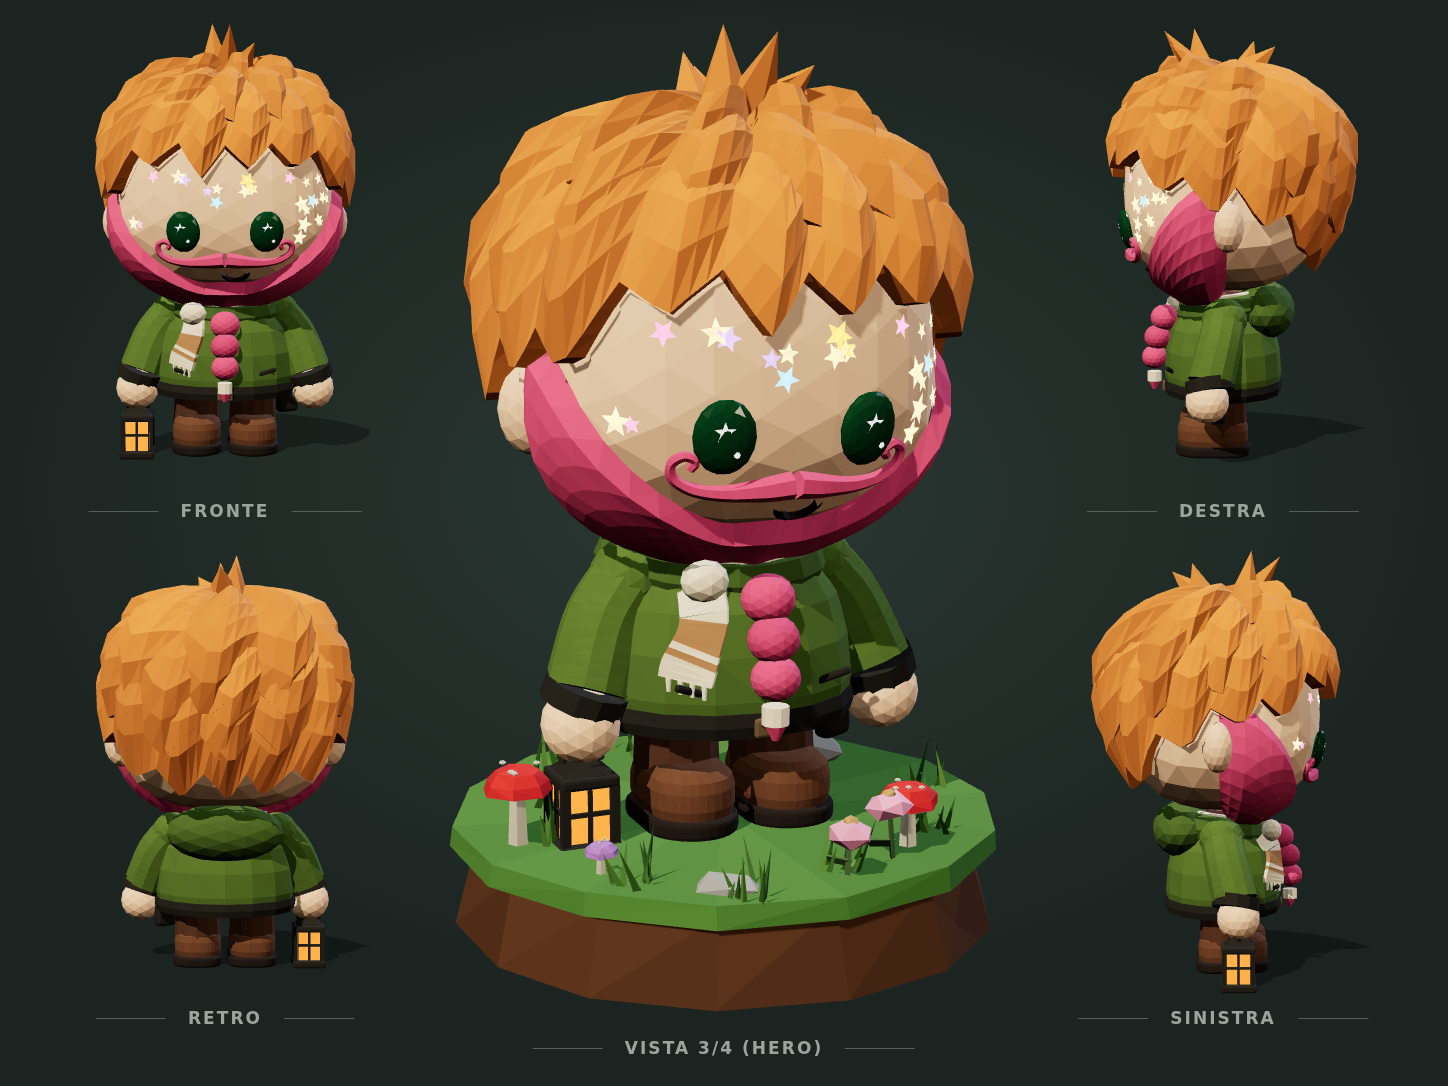
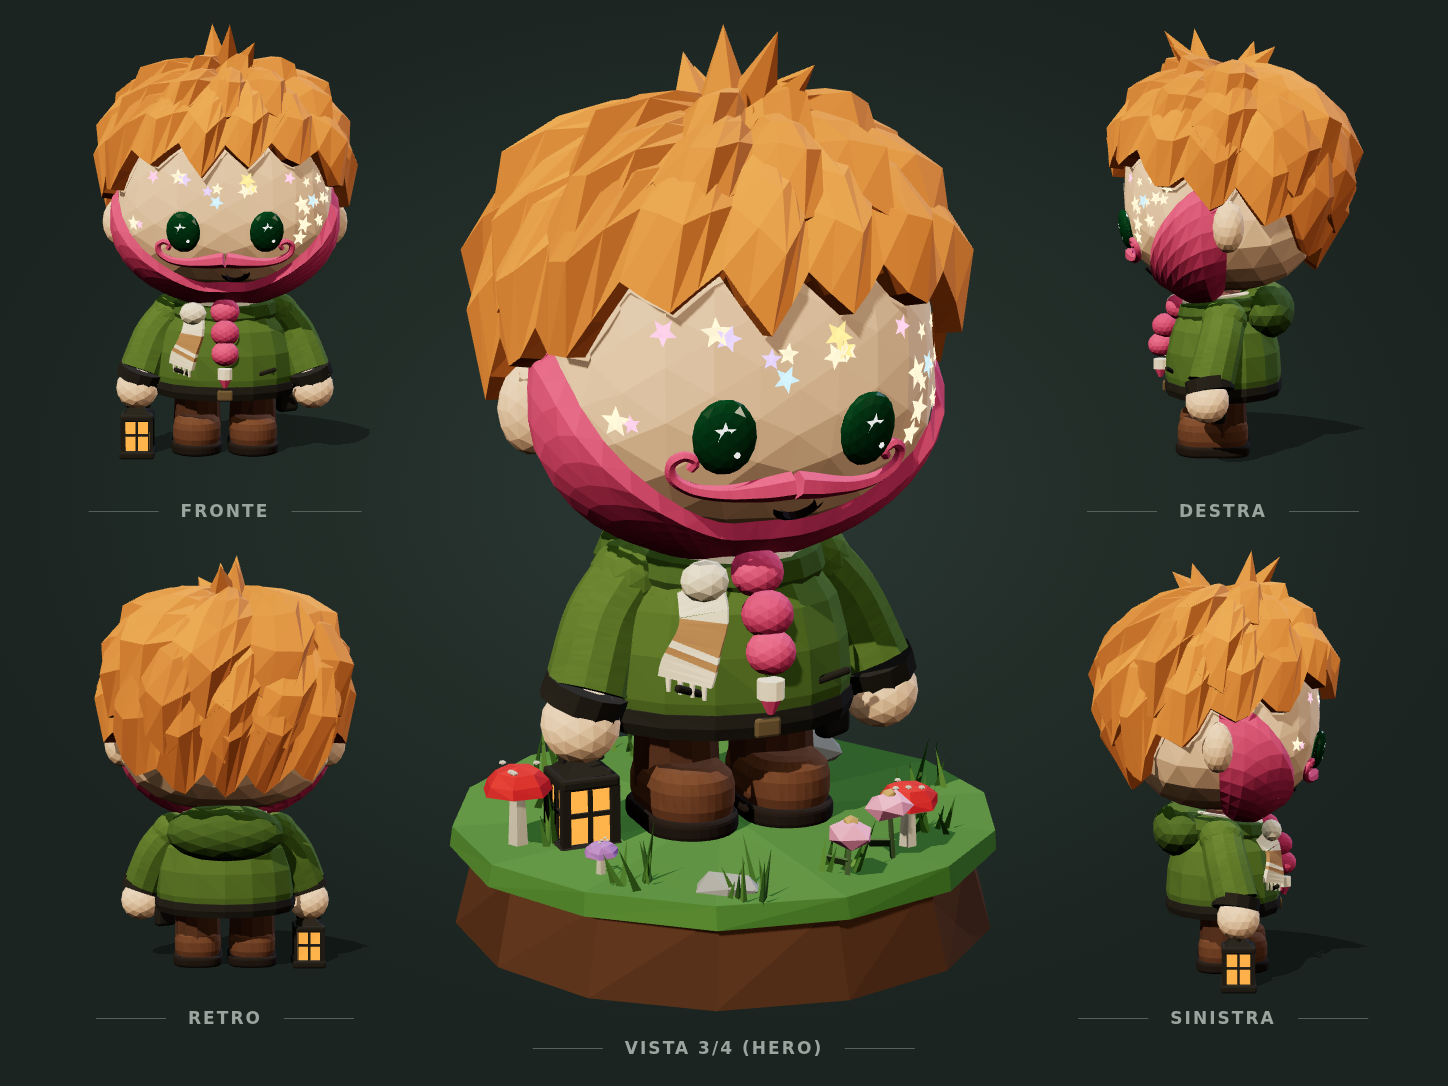
Style prototype v2, tenth pass: thinner beard sides, attached braid, lighter hair
Beard thinner on the sides; braid starts half inside the beard tip; hair
layers use fewer segments per lock (4x6 instead of 6x9) with the same look,
bringing the whole model to ~12.7k triangles. Audit updated.

Claude-Session: https://claude.ai/code/session_01U6u5RojYrwYjZd8sSRU7em

diff --git a/Prototype-3d/src/proto/custodeV2.ts b/Prototype-3d/src/proto/custodeV2.ts
@@ -256,7 +256,7 @@ function beard(lp: LP) {
       const side = smooth(0, 0.12, 1 - Math.abs(u));
       const center = 0.35 + 0.65 * Math.pow(1 - Math.abs(u), 1.4);
       const low = Math.pow(1 - v, 2);
-      const t = side * smooth(0, 0.06, 1 - v) * (0.018 + 0.012 * center + 0.075 * low * center); // fascia media ai lati, cuneo pieno al mento
+      const t = side * smooth(0, 0.06, 1 - v) * (0.008 + 0.014 * center + 0.075 * low * center); // sottile ai lati, cuneo pieno al mento
       // sotto il mento la massa va anche in avanti, non solo lungo la normale
       const dir = n.clone().add(new THREE.Vector3(0, -0.15, 0.55).multiplyScalar(low * center)).normalize();
       inner[i].push(p.clone());
@@ -280,13 +280,13 @@ function beard(lp: LP) {
 function braid(lp: LP) {
   const { p, n } = headAt(0, -84 * DEG);
   const dir = n.clone().add(new THREE.Vector3(0, -0.15, 0.55)).normalize();
-  const tip = p.addScaledVector(dir, 0.012 + 0.016 + 0.075 - 0.02); // appena dentro la punta della barba
-  const R0 = 0.036, STEPY = 0.052;
+  const tip = p.addScaledVector(dir, 0.008 + 0.014 + 0.075 - 0.03).add(new THREE.Vector3(0, 0.014, 0)); // metà dentro la punta della barba, metà fuori
+  const R0 = 0.036, STEPY = 0.05;
   const zMin = (y: number, r: number) => (jacketR(HEAD_T.y + HEAD_S * y) * 0.82 + r * HEAD_S * 0.9) / HEAD_S;
   let y = tip.y, z = tip.z;
   for (let i = 0; i < 3; i++) {
     const r = R0 - i * 0.0015;
-    z = Math.max(z - 0.004, zMin(y, r));
+    z = Math.max(z - 0.006, zMin(y, r * 0.6)); // scende dritta, appena appoggiata alla giacca
     lp.blob(0, y, z, r * 1.05, r * 0.95, r, i % 2 ? '#c94f75' : BEARD, { ...O, detail: 2 } as LPOpts);
     y -= STEPY;
   }
@@ -325,7 +325,7 @@ function moustache(lp: LP) {
 function hairLayer(lp: LP, o: { locks: number; hem: (thDeg: number) => number; depth: number; lift: number; thick: number; phase: number; swirl: number; seed: number; tone: (k: number) => string }) {
   const rnd = prng(o.seed);
   const jitter = Array.from({ length: o.locks }, () => [0.75 + rnd() * 0.5, (rnd() - 0.5) * 0.3, rnd()]); // lunghezza, asimmetria, tono
-  const NU = o.locks * 6, NV = 9;
+  const NU = o.locks * 4, NV = 6; // pochi segmenti: bastano per punta e rilievo di ogni ciocca
   const P: THREE.Vector3[][] = [], Q: THREE.Vector3[][] = [], Nn: THREE.Vector3[][] = [], lockOf: number[] = [];
   for (let i = 0; i <= NU; i++) {
     const u = i / NU, f = (u * o.locks + o.phase) % o.locks, k = Math.floor(f), w = f - k;

diff --git a/Prototype-3d/docs/audit-stile-custode-v2.md b/Prototype-3d/docs/audit-stile-custode-v2.md
@@ -76,6 +76,11 @@ Nona passata (capelli e barba ripensati guardando bene il concept):
 - **Treccia:** costruita nello stesso spazio della barba; il primo grano parte dalla punta del cuneo e gli altri scendono toccandosi.
 - **Occhi:** ancora più piccoli.
 
+Decima passata:
+- **Barba:** più sottile ai lati.
+- **Treccia:** il primo grano parte metà dentro la punta della barba, gli altri scendono dritti.
+- **Capelli:** meno segmenti per ciocca (4 di larghezza e 6 di altezza al posto di 6 e 9), con lo stesso aspetto. Il modello intero scende a ~12.700 triangoli, meno del Custode attuale con un look ricco.
+
 ## Prestazioni su telefono (app Capacitor)
 
 Con Capacitor il gioco gira nel WebView del sistema (WKWebView su iOS, WebView di Chrome su Android): le prestazioni sono quelle del browser del telefono. Che il gioco funzioni offline non cambia nulla, perché il lavoro lo fanno GPU e CPU del dispositivo.
@@ -121,7 +126,7 @@ Il lavoro vero è **rifare le opzioni di personalizzazione** nel nuovo stile, ci
 |---|---|---|---|
 | Custode attuale, look base | 7.450 | 7 | — |
 | Custode attuale, look ricco (ricci lunghi, treccia, manubrio, monocolo, brillantini) | 17.370 | 9 | ~126 ms |
-| Prototipo v2 (completo, con lanterna) | 15.000 | 8 | ~35 ms |
+| Prototipo v2 (completo, con lanterna) | 12.700 | 8 | ~30 ms |
 
 Il v2 costa più o meno quanto un look ricco di oggi, ed è più veloce da generare perché la testa è un ellissoide. Diviso nelle parti del rig resterebbe a circa 8–10 draw call. Per il solo Custode non ci sono problemi di prestazioni.
 
